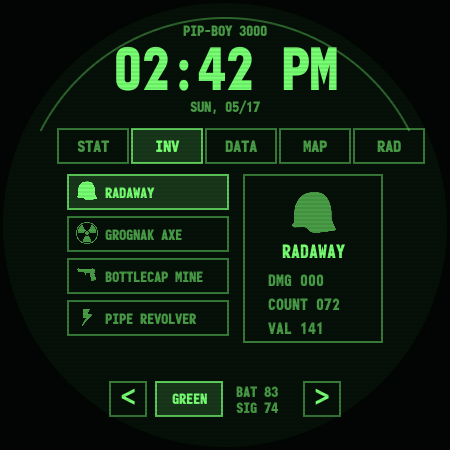
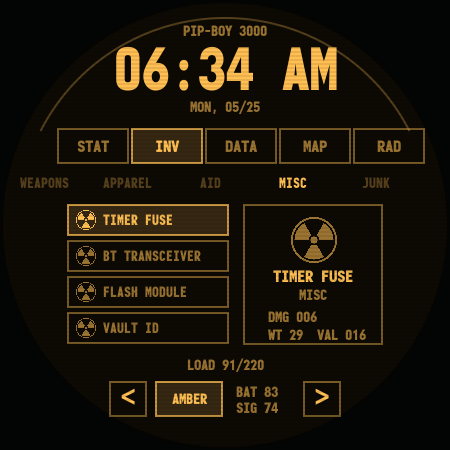
Add inventory category subpages

diff --git a/watchface/watchface/src/main/java/com/megazegan/vaultwatch/face/TerminalActivity.java b/watchface/watchface/src/main/java/com/megazegan/vaultwatch/face/TerminalActivity.java
@@ -102,15 +102,34 @@ public class TerminalActivity extends Activity {
         private static final String[] TABS = {"STAT", "INV", "DATA", "MAP", "RAD"};
         private static final String[] STAT_TABS = {"STATUS", "SPECIAL", "PERKS"};
         private static final String[] THEMES = {"GREEN", "AMBER", "BLUE"};
-        private static final String[] ITEM_NAMES = {
-                "SPOTIFY RELAY", "TIMER FUSE", "ALARM BEACON", "FLASH MODULE",
-                "CALC HOLOTAPE", "BT TRANSCEIVER", "WIFI KEY", "STIM KIT",
-                "RADAWAY", "VAULT 111 SUIT", "NUKA GRENADE", "LASER MUSKET",
-                "ROAD LEATHERS", "PIPE REVOLVER", "BOTTLECAP MINE", "JET INHALER",
-                "COMBAT ARMOR", "PLASMA CELL", "SUGAR BOMBS", "DOGMEAT BANDANA",
-                "FUSION CORE", "MENTATS", "GROGNAK AXE", "NOTE TAPE"
+        private static final String[] INV_TABS = {"WEAPONS", "APPAREL", "AID", "MISC", "JUNK"};
+        private static final String[][] ITEM_POOLS = {
+                {
+                        "10MM SIDEARM", "LASER MUSKET", "PIPE REVOLVER", "PLASMA PISTOL",
+                        "BOTTLECAP MINE", "NUKA GRENADE", "GROGNAK AXE", "COMBAT KNIFE",
+                        "RAILWAY SPIKE", "SECURITY BATON", "FAT MAN TOY", "FLARE GUN"
+                },
+                {
+                        "VAULT 111 SUIT", "ROAD LEATHERS", "COMBAT ARMOR", "DOGMEAT BANDANA",
+                        "MINUTEMAN HAT", "FIELD ARMOR", "RAD FILTER", "LEATHER CHEST",
+                        "TRAVEL COAT", "SYNTH HELMET", "WELDING GOGGLES", "POWER FRAME"
+                },
+                {
+                        "STIM KIT", "RADAWAY", "RAD-X", "JET INHALER",
+                        "MENTATS", "SUGAR BOMBS", "NUKA-COLA", "PURIFIED WATER",
+                        "MED-X", "BUFFOUT", "MUTFRUIT", "INSTAMASH"
+                },
+                {
+                        "SPOTIFY RELAY", "TIMER FUSE", "ALARM BEACON", "FLASH MODULE",
+                        "CALC HOLOTAPE", "BT TRANSCEIVER", "WIFI KEY", "NOTE TAPE",
+                        "VAULT ID", "MAP PIN", "SIGNAL TAG", "DATA TAPE"
+                },
+                {
+                        "TIN CAN", "DUCT TAPE", "DESK FAN", "TOY CAR",
+                        "FUSE BOX", "SENSOR MODULE", "GEAR STACK", "SCRAP METAL",
+                        "COFFEE MUG", "CLIPBOARD", "BURNT BOOK", "OLD CIRCUIT"
+                }
         };
-        private static final String[] ITEM_TYPES = {"WEAPON", "AID", "TOOL", "TECH", "JUNK"};
         private static final String[] QUEST_NAMES = {
                 "OPEN SIGNAL", "SUPPLY RUN", "VAULT CACHE", "RELAY ECHO",
                 "OLD WORLD BLUES", "WATER CHIP TRACE", "NICK'S LEAD",
@@ -166,6 +185,7 @@ public class TerminalActivity extends Activity {
         private Typeface font = Typeface.MONOSPACE;
         private int section;
         private int statPage;
+        private int inventoryPage;
         private int selectedInventory;
         private int selectedData;
         private int selectedStation;
@@ -305,8 +325,17 @@ public class TerminalActivity extends Activity {
                 invalidate();
                 return true;
             }
-            if (section == 1 && x >= 68 && x <= 228 && y >= 175 && y <= 343) {
-                selectedInventory = Math.max(0, Math.min(3, (int) ((y - 175) / 42f)));
+            if (section == 1 && y >= 168 && y <= 198) {
+                int nextPage = Math.max(0, Math.min(INV_TABS.length - 1, (int) ((x - 42) / 82f)));
+                if (nextPage != inventoryPage) {
+                    inventoryPage = nextPage;
+                }
+                randomizeInventoryCategory();
+                invalidate();
+                return true;
+            }
+            if (section == 1 && x >= 68 && x <= 228 && y >= 205 && y <= 349) {
+                selectedInventory = Math.max(0, Math.min(3, (int) ((y - 205) / 36f)));
                 invalidate();
                 return true;
             }
@@ -430,21 +459,29 @@ public class TerminalActivity extends Activity {
         }
 
         private void drawInventory(Canvas canvas) {
+            drawInventorySubTabs(canvas);
             for (int i = 0; i < inventoryItems.length; i++) {
-                rect.set(68, 175 + i * 42, 228, 209 + i * 42);
+                rect.set(68, 205 + i * 36, 228, 235 + i * 36);
                 boolean active = i == selectedInventory;
                 box(canvas, rect, active);
-                drawBitmap(canvas, inventoryIcons[i], 76, 180 + i * 42, 22, 22, text);
-                text(canvas, inventoryItems[i], 105, 198 + i * 42, 14, active ? text : dim, Paint.Align.LEFT);
+                drawBitmap(canvas, inventoryIcons[i], 76, 210 + i * 36, 20, 20, text);
+                text(canvas, inventoryItems[i], 103, 225 + i * 36, 13, active ? text : dim, Paint.Align.LEFT);
             }
-            rect.set(244, 175, 382, 342);
+            rect.set(244, 205, 382, 344);
             box(canvas, rect, false);
-            drawBitmap(canvas, inventoryIcons[selectedInventory], 290, 189, 48, 48, text);
-            text(canvas, inventoryItems[selectedInventory], 313, 258, 17, text, Paint.Align.CENTER);
-            text(canvas, inventoryTypes[selectedInventory], 313, 276, 14, dim, Paint.Align.CENTER);
-            text(canvas, "DMG " + String.format(Locale.US, "%03d", inventoryDamage[selectedInventory]), 268, 298, 15, dim, Paint.Align.LEFT);
-            text(canvas, "WT " + inventoryWeight[selectedInventory] + "  VAL " + String.format(Locale.US, "%03d", inventoryValue[selectedInventory]), 268, 322, 15, dim, Paint.Align.LEFT);
-            text(canvas, "LOAD " + carryWeight + "/220", 313, 358, 14, carryWeight > 180 ? Color.rgb(255, 107, 74) : dim, Paint.Align.CENTER);
+            drawBitmap(canvas, inventoryIcons[selectedInventory], 291, 217, 46, 46, text);
+            text(canvas, inventoryItems[selectedInventory], 313, 282, 16, text, Paint.Align.CENTER);
+            text(canvas, inventoryTypes[selectedInventory], 313, 300, 14, dim, Paint.Align.CENTER);
+            text(canvas, "DMG " + String.format(Locale.US, "%03d", inventoryDamage[selectedInventory]), 268, 322, 14, dim, Paint.Align.LEFT);
+            text(canvas, "WT " + inventoryWeight[selectedInventory] + "  VAL " + String.format(Locale.US, "%03d", inventoryValue[selectedInventory]), 268, 340, 14, dim, Paint.Align.LEFT);
+            text(canvas, "LOAD " + carryWeight + "/220", 225, 370, 14, carryWeight > 180 ? Color.rgb(255, 107, 74) : dim, Paint.Align.CENTER);
+        }
+
+        private void drawInventorySubTabs(Canvas canvas) {
+            for (int i = 0; i < INV_TABS.length; i++) {
+                float x = 44 + i * 83f;
+                text(canvas, INV_TABS[i], x, 188, 13, i == inventoryPage ? text : themedColor(92, 119, 255, 114), Paint.Align.CENTER);
+            }
         }
 
         private void drawData(Canvas canvas) {
@@ -652,27 +689,11 @@ public class TerminalActivity extends Activity {
                 special[i] = 3 + random.nextInt(8);
             }
             selectedInventory = 0;
+            inventoryPage = 0;
             selectedData = 0;
             selectedStation = 0;
             selectedAux = 0;
-            carryWeight = 0;
-            Bitmap[] icons = {gun, bolt, helmet, rad};
-            boolean[] usedItems = new boolean[ITEM_NAMES.length];
-            for (int i = 0; i < inventoryItems.length; i++) {
-                int index;
-                do {
-                    index = random.nextInt(ITEM_NAMES.length);
-                } while (usedItems[index]);
-                usedItems[index] = true;
-                inventoryItems[i] = ITEM_NAMES[index];
-                inventoryTypes[i] = ITEM_TYPES[random.nextInt(ITEM_TYPES.length)];
-                inventoryIcons[i] = icons[random.nextInt(icons.length)];
-                inventoryDamage[i] = random.nextBoolean() ? random.nextInt(46) : 0;
-                inventoryCount[i] = 1 + random.nextInt(99);
-                inventoryValue[i] = 12 + random.nextInt(220);
-                inventoryWeight[i] = 3 + random.nextInt(58);
-                carryWeight += inventoryWeight[i];
-            }
+            randomizeInventoryCategory();
             if (carryWeight > 180) {
                 activeEffect = "OVER-ENCUMBERED";
             } else if (hydration < 45) {
@@ -689,6 +710,36 @@ public class TerminalActivity extends Activity {
                 dataValues[i] = QUEST_STATUS[random.nextInt(QUEST_STATUS.length)];
                 dataNotes[i] = QUEST_NOTES[random.nextInt(QUEST_NOTES.length)];
             }
+        }
+
+        private void randomizeInventoryCategory() {
+            selectedInventory = 0;
+            carryWeight = 0;
+            String[] pool = ITEM_POOLS[inventoryPage];
+            boolean[] usedItems = new boolean[pool.length];
+            for (int i = 0; i < inventoryItems.length; i++) {
+                int index;
+                do {
+                    index = random.nextInt(pool.length);
+                } while (usedItems[index]);
+                usedItems[index] = true;
+                inventoryItems[i] = pool[index];
+                inventoryTypes[i] = INV_TABS[inventoryPage];
+                inventoryIcons[i] = iconForInventoryCategory();
+                inventoryDamage[i] = inventoryPage == 0 ? 8 + random.nextInt(56) : random.nextInt(inventoryPage == 4 ? 6 : 18);
+                inventoryCount[i] = 1 + random.nextInt(inventoryPage == 2 || inventoryPage == 4 ? 12 : 3);
+                inventoryValue[i] = 8 + random.nextInt(inventoryPage == 4 ? 60 : 240);
+                inventoryWeight[i] = 1 + random.nextInt(inventoryPage == 2 ? 8 : inventoryPage == 4 ? 35 : 58);
+                carryWeight += inventoryWeight[i];
+            }
+        }
+
+        private Bitmap iconForInventoryCategory() {
+            if (inventoryPage == 0) return gun;
+            if (inventoryPage == 1) return helmet;
+            if (inventoryPage == 2) return bolt;
+            if (inventoryPage == 3) return rad;
+            return helmet;
         }
 
         private void updateStats() {

diff --git a/README.md b/README.md
@@ -28,7 +28,7 @@ This is a fan-made portfolio project by Mustafa Ugur Erkan / MegaZegan. It focus
 - STATUS page keeps the hero Vault Boy layout with HP/AP/RAD and only the most important readouts.
 - SPECIAL page carries the deeper health/survival numbers and SPECIAL bars.
 - PERKS page carries status effects, lifestyle readouts, and system/weather flavor.
-- INV page with randomized Fallout-style utility items, categories, values, and cosmetic carry weight.
+- INV uses Pip-Boy style sub-pages: `WEAPONS`, `APPAREL`, `AID`, `MISC`, and `JUNK`, with freshly randomized items whenever a category is tapped.
 - DATA page with randomized quest names, statuses, and notes.
 - MAP page with an in-app Pip-Boy map, GPS-style readout, speed/altitude simulation, then a button to launch Google Maps.
 - RAD page with in-app radio stations, signal scanner, radio noise flavor, then station taps can launch Spotify.
